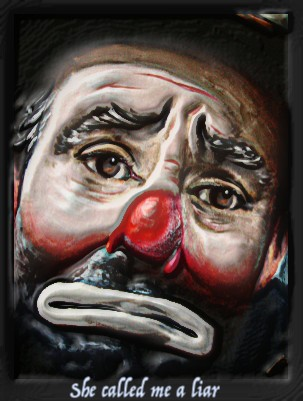
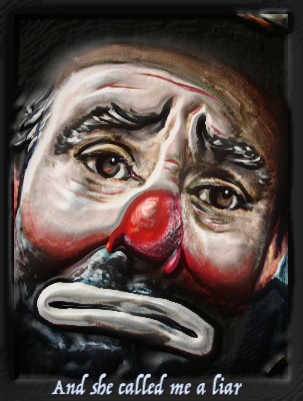
text, image updates

Changed region(s): [[0.1782, 0.9277, 0.802, 1.0]]

diff --git a/index.html b/index.html
@@ -165,7 +165,7 @@
                And within a few minutes all staff knew I was seriously baked. Flapping Jepeski.</p>
                <p>As one might imagine, a lot of details are gone. But some impressions of the ensuing hilarity remain: Repeated barks of "HOT!" just as Larry sent red-glowing pans crashing into the sink scalding my arms; freakish smells of burnt butter, frog legs, sauce veloute and pink detergent blasting up my nose; <em>tons</em> of charred, greasy metal needing attention "ASAP!"; senior babes snarking me behind my back; french-gibbering waiters peering into my wasted eyes, pleading for <em>le peyot&egrave;</em>.... 
                </p>
-               <p> But I made it. Didn't get canned or even told not to get so baked at work. Just how the placed rolled. Afterwards going home probably made short work of another bowl with Jepeski in his jacked up Nova.</p>
+               <p> But I made it. Didn't get canned or even told not to get so baked at work. Just how the placed rolled. Going home probably made short work of another bowl with Jepeski in his jacked up Nova.</p>
              </div>
              <div class="col nancy1">
                <p id="center">6</p>
@@ -310,8 +310,8 @@
                <div class="col dumas1">
                  <p id="center">11</p>
                  <h4>The Brothers Dumas</h4>
-                 <p>Charm has many forms, many facets, many faces. Though different in essence Alexander and Frederick Dumas were both enormously charm-gifted. Raised in the south Seattle hood, neither Alex nor Fred were inclined towards the thuggish mannerisms common to the area; preferring, rather, to interact with two distinct but equally effective versions of humor, and charm.</p>
-                 <p>It was an upscale BBQ joint located on a busy corner of Capitol Hill, Seattle, where Alex and Fred worked. Alex was a prep cook, Fred a dishwasher. After a few years working front house gigs, I was back in the kitchen, painting ribs and grilling steaks at the same place. Walnut-hued, medium height and brawny, Alex was baritone-chatty, friendly, open, innocent. Fred was a shade darker, taller, leaner, and with a deeper voice that, though less active than his brother's had a tone of cleverness and irony. With only a slight alteration in demeanor or expression either could have looked intimidating, even menacing. But neither seemed suited towards, or interested in, being thus - their appearances invariably projecting geniality and humor.</p> 
+                 <p>Charm has many forms, many facets, many faces. Though different in essence Alexander and Frederick Dumas were both enormously charm-gifted. Raised in the south Seattle hood, neither Alex nor Fred were inclined towards the rap-culture thuggery common to the area; preferring, rather, to interact with two distinct but equally effective versions of humor, and charm.</p>
+                 <p>It was an upscale BBQ joint located on a busy corner of Capitol Hill, Seattle, where Alex and Fred worked. Alex was a prep cook, Fred a dishwasher. After a few years working front house gigs, I was back in the kitchen, painting ribs and grilling steaks at the same place. Walnut-hued, medium height and fit, Alex was baritone-chatty, friendly, open, innocent. Fred was a shade darker, taller, leaner, and with a deeper voice that, though less active than his brother's had a tone of cleverness and irony. With only a slight alteration in demeanor or expression either could have looked intimidating, even menacing. But neither seemed suited towards, or interested in, being thus - their appearances invariably projecting geniality and humor.</p> 
                  <p>The restaurant's street level cooking line was behind the bar with an open view of the dining room and the busy Uptown streets beyond. During lunch and dinner service, myself and the other line cooks communicated by phone with the prep cooks and dishwashers, who worked in a spacious preparation area, one floor below. In need of a red onion during a busy lunch one day I phoned downstairs and Alex answered.</p>
                  <p>"Dumas Diner, chef speaking," He joked.<br/>
                  "Hey Alex, can you bring up a red onion."<br/>
@@ -326,13 +326,12 @@
                <div class="col dumas2">
                  <p id="center">12</p>
                  <h4>The Brothers Dumas 2</h4>
-                 <p>I don't here wish to be misconstrued, for my meaning is not to insult. Alex was a wonderful, genuinely funny person. But at times, and largely due to his charming innocence, his best humor was not entirely intentional. And lest you think the brothers' names are falsified to mock, or - in the case of the last name "Dumas" - intended as a demeaning pun, you would be incorrect on both points. Their names as here written, both first and last, are genuine.</p>
-                 <p>I could include other instances of Alex's charm, both witting and not, but the example written is a personal favorite, has heretofore always elicited a fair burst of mirth, and fits snugly into the small plates motif. So I'll just leave it at that.</p>
-                 <p>Charming moments with Fred playing the protagonist were frequent as well. Of especial poignancy was one that occurred  the night before a Holiday dinner event at which turkey was to be served.</p>
-                 <p>My good friend, and the restaurant's chef, Ed Hale (First-class <em>and</em> first-rate) and I were on the upstairs line preparing a few turkeys to be roasted the following day. Needing some bread to make stuffing, I called the prep kitchen and in his deep bass voice, Fred answered:</p>
-                 <p>"Boiler room!"<br/>"Hey Fred, could you bring up a couple of baguette loaves?"<br/> "Sure. Need 'em tonight?"<br/>"That's probably best, Fred."<br/>"Ok, get my peeps right on it."</p>
-                 <p>Baguettes in hand, Fred lumbered up to the line and dropped them on the counter. Then pointing to a bag of giblets next to one of the turkeys, asked:</p>         
-                 <p>"That its balls?"<br/> "Sure is Fred,"  answered the chef.<br/> "How come they in the bag?"<br/> "In case anyone wants to eat 'em, I guess."<br/>"Hmm. So where's its penis?"</p>
+                 <p>If to insult seems to be the intention of the above anecdote then I have been misconstrued. Alex was a wonderful, genuinely amusing person. But as with us all there were times - largely due to his charming innocence - that his humor was not entirely intentional. And lest you think the brothers' names are falsified to mock, or - in the case of the last name "Dumas" - intended as a demeaning pun, you would be wrong on both points. Their names as here written, both first and last, are genuine.</p>
+                 <p>Other instances of Alex's charm, both witting and not, I could include in this brief portrait, but prefer to move on to one involving his brother Fred, who was equally ready and able to amuse.</p>
+                 <p>One night before a Holiday dinner event my good friend chef Ed Hale, (First-class <em>and</em> first-rate) and I were on the upstairs line preparing a few turkeys. Needing some bread to make stuffing, I called the prep kitchen and in his deep bass voice, Fred answered:</p>
+                 <p>"Boiler room!"<br/>"Hey Fred, can you bring up a couple loaves of bread?"<br/> "Sure. Need 'em tonight?"<br/>"That's probably best, Fred."<br/>"Ok, get my peeps right on it."</p>
+                 <p>A loaf in each hand, Fred lumbered up to the line and dropped them on the counter. Then pointing to a bag of giblets next to one of the turkeys, asked:</p>         
+                 <p>"That its balls?"<br/> "Sure is Fred,"  answered the chef.<br/> "What're they doing in the bag?"<br/> "In case anyone wants to eat 'em, I guess."<br/>"Hmm. So where's its penis?"</p>
                  <p>Skipping nary a beat chef Hale reached into the turkey and pulled out the neck.<br/>Following a few seconds silence Fred shook his head and smiled.</p>
                  <p>"Damn."</p>
                </div>
@@ -505,11 +504,11 @@
                     </div>
                     <div class="col jay1">
                        <p id="center">20</p>
-                       <h4>She Called Me A Liar</h4>
-                       <p>It was a swank restaurant in the heart of Incline Village, Lake Tahoe. I had only been in Tahoe a few days, and this was my first job interview. The chef was tall and direct, and in a strong, commanding voice asked me if I had cooking experience. "Yes." Then asked if I had <em>French</em> cooking experience. "Yes." Then told me I was hired and to start the following day. <em>Gard Manger</em> position. My job was line preparation of salads, appetizers and desserts.</p>
+                       <h4>And She Called Me A Liar</h4>
+                       <p>It was a swank restaurant, lounge and tennis club in the heart of Incline Village, Lake Tahoe. I had only been in Tahoe a few days, and this was my first job interview. The chef was tall and direct, and in a strong, commanding voice asked me if I had cooking experience. "Yes." Then asked if I had <em>French</em> cooking experience. "Yes." Then told me I was hired and to start the following day. <em>Gard Manger</em> position. My job was line preparation of salads, appetizers and desserts.</p>
                        <p>The chef's last name was identical in pronunciation to that of a then famous chef, one Roger Verg&eacute;, (Ver-<em>jhay)</em> and during one of my first days working with him, I asked if there was any relation. To my surprise he said there was, that Roger Verg&eacute; was his Uncle. Knowing nothing of the chef I had no reason to doubt him, but as the cloth-stenciled spelling on his chef's jacket didn't match that of my recollection of the French master's last name, I was a bit mystified. Out of curiosity the next day I went to the library and located one of Chef Verg&eacute;'s books. The spelling was, as I thought, different from that of my current boss. Quite different.</p>
                        <p>The Tahoe Chef liked my work, and we soon became friends. He was a fine chef, professionally trained and gifted with an excellent palate and nose. He was also self-confident, tremendously charismatic, popular with women and very at ease with the local celebrities. </p>
-                       <p>Before long we were goofing off together outside of work. Dinner with our wives - I was recently maried, he for a few years; playing blackjack at Hyatt; and when winter arrived, skiing at one of the many nearby resorts. We had many good times, I really liked the man. It was fun to be with him. Even as it became clear that he really was a bad sort, and a big time liar.</p>
+                       <p>Before long we were goofing off together outside of work. Checking out new places to have lunch. Sneaking into the restaurant after closing hours to snag a bottle of wine, "<em>I've got a key!</em>." Dinner with the  wives - I was recently maried, he for a few years. Playing blackjack at the Hyatt. And when winter arrived, skiing at one of the many nearby resorts. We had many good times, I really liked the man. It was fun to be with him. Even as it became clear that he really was a bad sort, and a big time liar.</p>
                     <div id ="wild">
                       <p>“After a good dinner one can forgive anybody, even one's own relations.” 
                          ― Oscar Wilde</p>
@@ -517,15 +516,13 @@
                     </div>
                     <div class="col jay2">
                       <p id="center">21</p>
-                      <h4>She Called Me A Liar 2</h4>
-                      <p>To me it made no sense. He was popular and accomplished. There didn't seem to be any sound reason to fabricate his experiences or embellish his rich, active life, but that he did. A great deal.</p>     <p>Of course he was not nephew to Roger Verg&eacute;. Nor, as plainly evident by his mediocre ability, had he ever been a ski instructor - though insisting to me he had. During spirited conversation whether or not liquor-amplified many of his anecdotes and reminiscences, though said to be true, were obvious to all who had come to know him, fun and laughter-inducing but obvious lies. Especially obvious to his sweet, adoring wife who, regardless of the fabrication's magnitude would simply look to him smiling and say: "Oh, honey."</p>
-                      <P>And regarding my first hand accounting, at least, never once did anyone challenge the veracity of his tall tales. He was like a king among subjects.</P>
-                      <p>As fun and harmless as were his lies, his ceaseless infidelity wasn't, really. Though regretfully never challenge him over it, being a friend and confidant positioned me to know many details of his persistent cheating, as well as with the side-girls themselves who often would show up at the restaurant and leave with him.</p>
-                      <p>It was indeed shameful, and having his respect I probably should have at least tried to dissuade him. But I didn't.</p>
-                      <p>At some point he even rented a small apartment to more easily facilitate his encounters with a new babe that he seemed especially fond of. Quite in opposition to his sweet, naive wife the current  paramour, who was now regularly dropping by the restaurant, dressed, laughed and generally behaved like a whore; but was unquestionably allurring. Clearly taken by her, the chef even admitted to me that of all his side babes, she was the most exciting, and that he could even imagine divorcing his wife for her. A naturally happy, bouyant person, with this new hottie in his life he was positively elated.</p>
-                      <p>One day, however, he came to the restaurant down, way down. Quiet, sullen, brooding, I'd never seen him thus. After several hours wondering what could be the cause of his distress, he told me his new girlfriend broke up with him. Then looking to me with a wounded expression of utter sadness and offense, said:</p>
+                      <h4>And She Called Me A Liar 2</h4>
+                      <p>To me it made no sense. He was popular and accomplished. There didn't seem to be any sound reason to fabricate his experiences or embellish his rich, active life, but that he did. A great deal.</p>                   <p>Of course he was not nephew to Roger Verg&eacute;. Nor, as plainly evident by his clumsy skiing, had he ever been an instructor - though insisting to me he had. Nor was he a "semi pro" golfer as a waiter told me the chef had claimed, before playing a round with him and witnessing "the lamest game ever." During spirited conversation many of his truth-sworn reminiscences, however funny and forcefully told, were obvious lies - at least to those who had come to know him. And in particular obvious to his sweet, adoring wife who, regardless of the falsehood's transparency would simply look to him smiling and say: "Oh, honey." But never once did I hear the veracity of his tales challenged. He was a king among subjects.</p>
+                      <p>As plentiful as were the chef's lies was his infidelity. At length becoming both friend and confidant I was increasingly made familiar with the details of the chef's cheating, as well as with some of the side-girls themselves who often would show up late at the restaurant before leaving with him.</p>
+                      <p>At some point the chef even rented a small apartment to more easily facilitate encounters with a new babe that he seemed especially fond of. Quite in opposition to his sweet, naive wife the current  paramour - who was now regularly dropping by the restaurant - walked, dressed, laughed and generally behaved like a tramp. But there was no question regarding her allure. Clearly enamored, the chef even admitted to me that of all his side babes, she was the most exciting, and that he could even imagine divorcing his wife for her. A naturally happy, bouyant person, with this new hottie in his life he was positively elated.</p>
+                      <p>One day, however, he came to the restaurant down, way down. Quiet, sullen, brooding, I'd never seen him thus. After a few hours wondering what could be the cause of his distress, he told me his new girlfriend said she couldn't take him anymore, and broke up. Then looking to me with a wounded expression of utter sadness and offense, said:</p>
                     </div>
-                    <div class="col recipe">
+                    <div class="col citveg">
                       <p id="center">22</p>  
                       <p id="hover">You guessed it!</p>
                       <img id="clown" src="clown.jpg" alt="Sad Clown">
@@ -571,43 +568,94 @@
                           <li>
                           1/2 cup cauliflower, broken into bite size pieces
                           </li>
+                          <li>
+                          1/4 red onion, cut into cubes
+                          </li>
                           </ul>
                          <br/>*Whisk, blend or shake brine unt il sugar is dissolved<br/>
                          *Place veggies in a bowl or container and pour over brine. If brine doesn't cover veggies, add more O.J. or water.<br/>
                          *Refrigerate and allow to marinate for 3 hours minimum.<br/>*That's it!<br/>*A nice small plate on their own, the veggies also serve well as a side to seafood, or with a scoop of guacamole.
-                    <div class="tip3">
-                       <p id="center"><u>First-class second-rate chef tip # 3</u>
-                       <p>*Place veggies in a bowl or container and pour over brine. If brine doesn't cover veggies, add more O.J. or water.<br/>
-                         *Refrigerate and allow to marinate for 3 hours minimum.</p>
+                    <div class="pablo">
+                       <p>The artichoke of tender heart dressed as a warrior, erect, made a small dome and remained impermeable under its shield. Beside it, the mad vegetables curled, growing tendrils, bulrush bulbs bulging; and in the earth the red-mustached carrot slept."</p>
+                       <p>- Pablo Neruda
+                       </p>
                      </div>
                     </div>
                     <div class="col jay2">
                       <p id="center">23</p>
-                      <h4>Satisfaction</h4>
+                      <h4>Sa'issfaction</h4>
                       <p>Shortly after the chef's girl broke up with him a beautiful, sultry blonde was hired to seat customers. Before long she and the chef were leaving together, and he was again of good cheer.</p>
-                      <p>As previously written, the Chef was a man at ease even with the rich and famous. David Coverdale, lead singer of the rock band "White Snake" lived in the area, was a regular customer and buddy to the chef. And at the time Mr. Coverdale was recording an album with legendary Led Zeppelin guitarist Jimmy Page, also now a regular restaurant patron, and chummy with the chef as well.</p>
+                      <p>As previously written, the Chef was a man at ease even with the rich and famous. David Coverdale, lead singer of the rock band "White Snake" lived in the area, was a regular customer and buddy to the chef. And at the time Mr. Coverdale was recording an album with legendary Led Zeppelin guitarist Jimmy Page - also now a regular restaurant patron, and chummy with the chef as well.</p>
                       <p>At some point during the guitar great's Tahoe sojourn, he consented to play with a local rock band in the restaurant's lounge. Though a small venue - 100 person capacity, perhaps - the band erected an impressive stack of amplifiers, which, upon hopping up to the bar-sized stage, Mr. Page gave instructions to "crank 'er up."</p>
-                      <p>Though it literally pained me to do so, I watched the entire hour-or-so-long performance from the right edge of the stage, directly in front of the right side amps, no more than six or seven  feet from the rock and roll legend, himself. Looking to be in his mid-forties at the time, Mr. Page's physical presence was less than impressive. No longer the black-haired, axe-slashing Adonis in leather bell bottoms, Page was now hunched and scrawny with lots of grey in the yet long rock-n-roll hairdo; and had a grotesque way of contorting his face and thrusting out his aging lips when strumming. But his guitar mastery was unquestionable. Thus, in spite of his frumpy, oddball demeanor (and the noise level) I was happy to to have witnessed the show.</p>
-                      <p>After the performance the rock star sat at a table sipping beer, his girlfriend (or wife), a beefy, long-haired bodyguard, and a few idolizing strangers bold enough to hang with a legend, in attendance. To his  immediate right also sat the chef. Suffering from hearing loss that would last three or four days, I casually observed from the bar.</p>
-                      <p>Most of the table's animation arising from the guitarist and chef, at one point a burst of loud, prolonged laughter sprang from the entire group. Partially deaf and missing the fun, I was glad when at length the chef approached the bar and happily recounted the joke. Evidentally a coven of she-satanists knew Page was in town, were furtively dogging his activities, and some were even presently in the lounge. Mr. Page, apparently, respresented an extremely elevated status - near to satan himself - in their dark belief's hierarchy. The chef then said that upon being informed of this the rock legend grinned and in his high-pitched heavily Brit-accented voice (admirably mimicked by the chef) quipped:</p>
-                      <p>"Don't really mind who they think I am. Long as they gimme  sa'issfaction in the bathroom."</p>
+                      <p>Though it literally pained me to do so, I watched the entire hour-or-so-long performance from the right edge of the stage, directly in front of the right side amps, no more than six or seven  feet from the rock and roll legend, himself. Looking to be in his mid-forties, Mr. Page's physical presence was less than impressive. No longer the ripped, axe-slashing superstud in gleaming leather bell bottoms, Page was now hunched and scrawny with lots of grey in the yet long rock-n-roll hairdo. And he had a grotesque way of contorting his face and thrusting out his aging lips when playing. But his guitar mastery was truly impressive. Hence, in spite of his frumpy, oddball demeanor (and the deafening noise level) I was happy to have witnessed the show.</p>
+                      <p>After the performance the rock star sat at a table sipping beer with his girlfriend (or wife), a brawny, long-haired bodyguard, and a few idolizing strangers bold enough to hang with a legend. To his immediate right also sat the chef. Suffering from hearing loss that would last three or four days, I sat at the bar unobtrusively (I hoped) observing.</p>
+                      <p>With most of the table's attention focused on the chattering guitarist and chef, there suddenly occurred a burst of loud, prolonged laughter from the entire group. Partially deaf and a bit far away to comprehend the levity, I  asked the chef about it when at length he approached the bar for a drink refill. He was happy to answer. Evidentally a coven of she-satanists knew Page was in town, were furtively dogging his activities, and some were even at present in the lounge. Mr. Page, apparently, respresented an extremely elevated status - near to satan himself - in their dark belief's hierarchy. The chef then said that upon being  informed of this the rock legend grinned and in his high-pitched heavily Brit-accented voice (admirably mimicked by the chef) quipped:</p>
+                      <p>"Don't really mind who they think I am, really. Long as they gimme  sa'issfaction in the bathroom."</p>
+                      <p>As curious as any rock fan of the comings and goings of a true legend, I yet declined to wait for confirmation.</p>
                    </div>
                    <div class="col jay3">
                       <p id="center">24</p>
                       <h4>Let's Give Him A Hand!</h4>
                       <p>Though his wife was now with child, the chef's relationship with the blonde hostess continued, increasing in its seriousness. Always a bit heavy, he was now working out, toning up, slimming down and visiting tanning booths as well - physical changes that became increasingly noticible and were likely at the new gal's insistence.</p>
-                      <p>Also changing were his dinner specials. Previously always employing French or  Italian (at times) cuisines, he was more and more working with  traditionally Asian foods and flavors. Curries, tandouri, peanut sauces, sticky rice and rice noodles, spicy chilies, etc. were being substituted for, or combined with the restaurant's usual Mediterranean fare.</p>
+                      <p>Also changing were his dinner specials. Previously creating pretty much exclusively French, or Italian (at times) cuisines, he was more and more working with  traditionally Asian foods and flavors. Curries, tandouri, peanut sauces, sticky rice and rice noodles, spicy chilies, sesame oil, etc. were being substituted for, or combined with the restaurant's usual Mediterranean fare.</p>
                       <p>One day I asked why the changes, and he told me:</p>
                       <p>"We're going to Santa Fe. Opening up an Asian-Fusion place. Calling it "The Edge." <br/>"Really? You mean you and the new hottie?" I asked.<br/>"Hey! Don't talk about her like that. She can read too, you know."<br/>"I'm sure she can," I said, surprised by the intensity of his umbrage."And didn't mean to imply she couldn't."<br/>"Well anyway, yeah, that's what's going on. You wanna come with us?"</p>
                       <p>Having already committed to move back to the Northwest, I told him no, I couldn't. And decided it was probably best not to ask about his wife and unborn kid.</p>
                       <p>Not long after the entire staff was compelled to attend a meeting to be conducted by the financing owner. A guy as dopey as he was rich - and he was quite rich - it would no doubt prove to be little more than time wasted.</p>
-                      <p>The meeting time came and my suspicions were confirmed. Phrases like "effectuating excellence," "zeroing in on the positive," and "fluid client responsiveness" tumbled forth, sedating all but the usual grandstanding sycophants into an unpleasant stupor.</p>
-                      <p>Winding it up, his last order of business was to heartily thank the chef for his excellent work.<br/>"Let's give him a hand!" he festively concluded, and all obeyed.</p>
+                      <p>The meeting time came and my suspicions were confirmed. Phrases like "effectuating positive," "zeroing in on the excellence," and "fluid client responsiveness" tumbled forth, sedating all but the usual grandstanding sycophants into a groggy stupor.</p>
+                      <p>Winding it up, his last order of business was to heartily thank the chef for his excellent work.<br/>"You've done a great job chef....Let's give him a hand!" he concluded, and all obeyed.</p>
                       <p>Beaming, the chef    raised his fists and pumped them above his head in victory. </p>
-                      <p>The following day he did not show up for work, nor would there ever again. Word then spread that during the night someone with a key entered and robbed the place blind.</p>
+                      <p>The following day the chef did not show up for work, nor would there ever again. Word then spread that during the previous night someone with a key entered and robbed the place blind.</p>
                   </div>
+                  <div>
+                     <div class="col beetspud">
+                        <p id="center">25</p>
+                        <p id="center1"><b>***Mashed Potato Roses***</b></p>
+                        <p id="center"><em>The humble spud with fine-dining flair.</em></p>
+                        <ul>
+                          <p id="center">(For this recipe two pastry bags with tips will be needed.)</p>
+                          <p><u>In <em>separate</em> pots, submerge in water and simmer covered until until soft:</u></p>
+                          <li>
+                          2 reds beets
+                          </li>
+                          <li>
+                          2 yellow beets
+                          </li>
+                          <li>
+                          When done strain and reserve at room temperature the two beet-colored liquids. <em>Keep separate.</em> Peel and refridgerate beets for other use, such as a beet salad, or side veg.
+                          </li>
+                          <p><u>Mashed potatoes for 4:</u></p>
+                          <li>
+                          4 small-to-medium or 3 large russet potatoes
+                          </li>
+                          <li>
+                          1 cup (1/2 pint) heavy whipping cream
+                          </li>
+                          <li>
+                          1/2 stick (4Tbl) butter
+                          </li>
+                          <li>
+                          4 cloves garlic, well chopped
+                          </li>
+                          <li>
+                          2 tsp salt
+                          </li>
+                          <li>
+                          1 tsp white pepper
+                          </li>
+                          <li>-------------------------------------</li><br/>
+                         *Peel, cube and gently boil potatoes until soft, about 20 minutes.<br/>
+                         *When potatoes are about half done, in a saut&eacute; pan cook chopped garlic in 1/2 stick of butter over low heat.<br/>*When garlic is soft, add cream and warm on low heat, do not boil.<br/>*When potatoes are well softened, thoroughly strain, place in separate bowl, add cream/garlic and mash.**<br/>*Evenly separate spuds and blend yellow liquid  into one half and red the other.<br/>*Enough of the respective liquids should be added to give each half of potatoes good pink/yellow color.<br/>*Spoon separated spuds into pastry bags and pipe onto plates. 
+                         <p>**There are several ways for potatoes to be mashed. The simplest is a masher, of course, but you can also blend with a mixer, run through a ricer, or smash through a pasta strainer with a ladle.</p>
+                         </ul>
+                       <div id="irish">
+                         <p>"Laughter is brightest where food is best."</p>
+                         <p>--Irish Proverb</p>
+                       </div>
+                      </div>
+                     </div>
+                   </div>
                  </div>
-                </div>
                </div>
              </div>
            </body>

diff --git a/SmallPlates.css b/SmallPlates.css
@@ -203,10 +203,37 @@ a:hover{
     transition: opacity 1s ease-in;
 
 }
-.tip3{
-    background-color:lightblue;
-    font-family:monospace;
-    font-size: 125%;
+.citveg{
+    font-weight: bold;
+    font-size: 95%
+}
+.pablo{
+    background-color: lightsteelblue;
+    margin-top: 30px;
+    margin-bottom: 10px;
+    padding: 1px 1px;
+    border-radius: 5px;
+    font-size: 120%;
+    font-family: cursive;
+    font-weight: bold;
+   
+    
+}
+.beetspud{
+    font-weight: bold;
+    font-size: 95%;
+    
+}
+#irish{
+    background-color: lightsteelblue;
+    font-size: 110%;
+    margin-top: 30px;
+    margin-bottom: 10px;
+    padding: 1px 1px;
+    border-radius: 5px;
+    font-family: cursive;
+    font-weight: bold;
+   
     
 }
     
